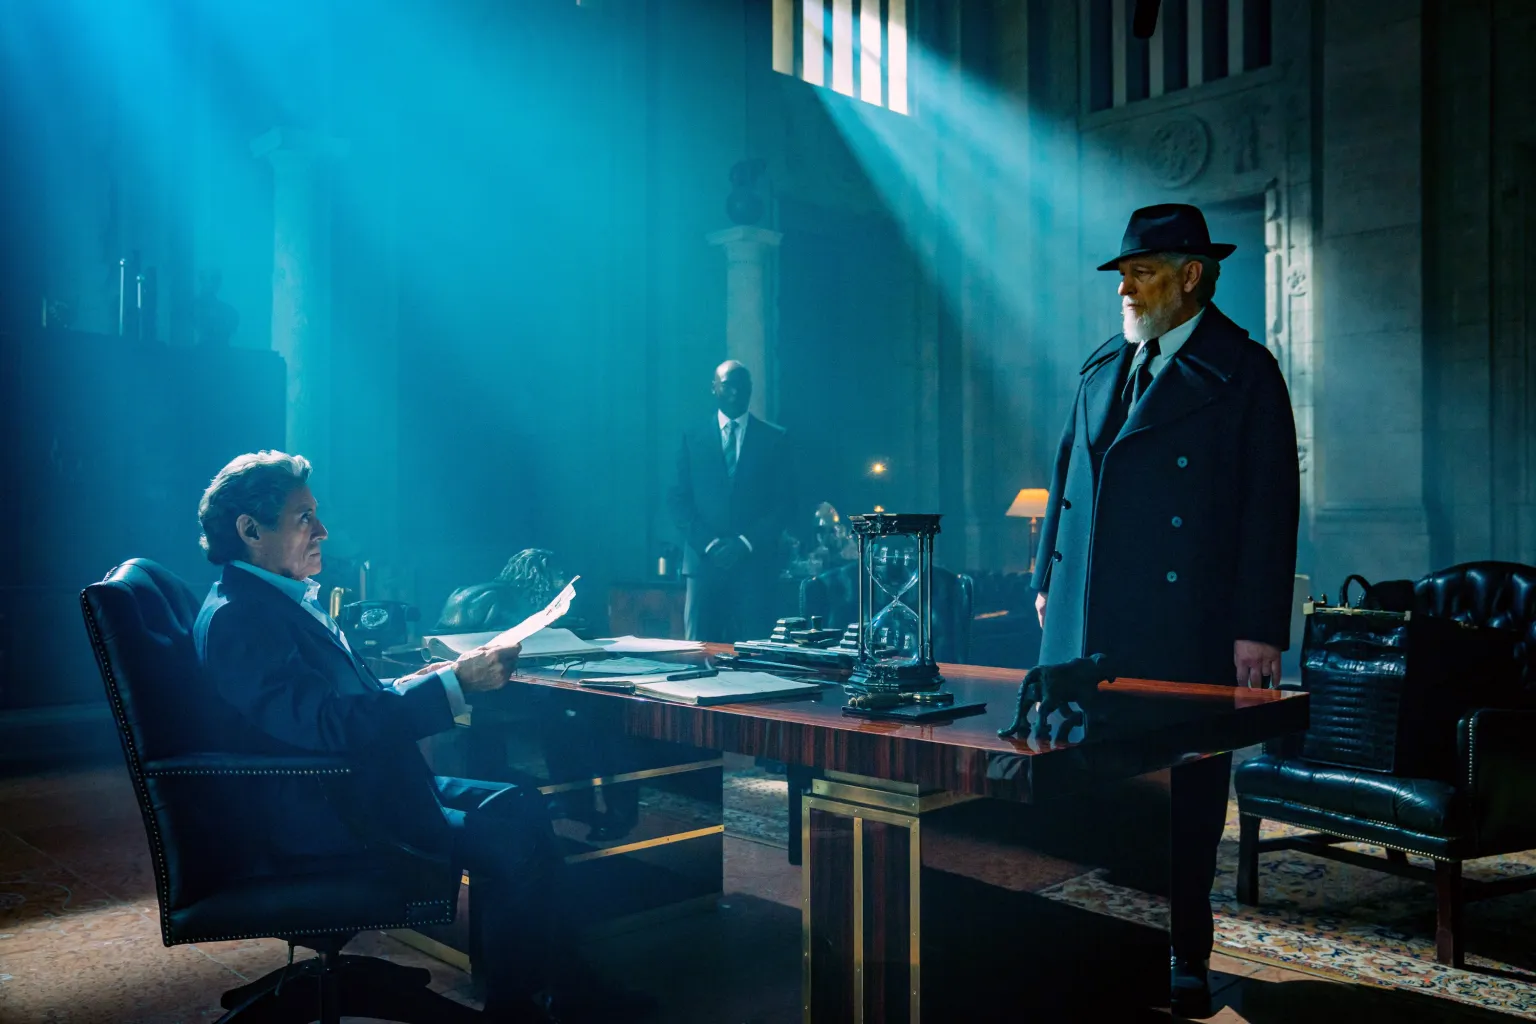
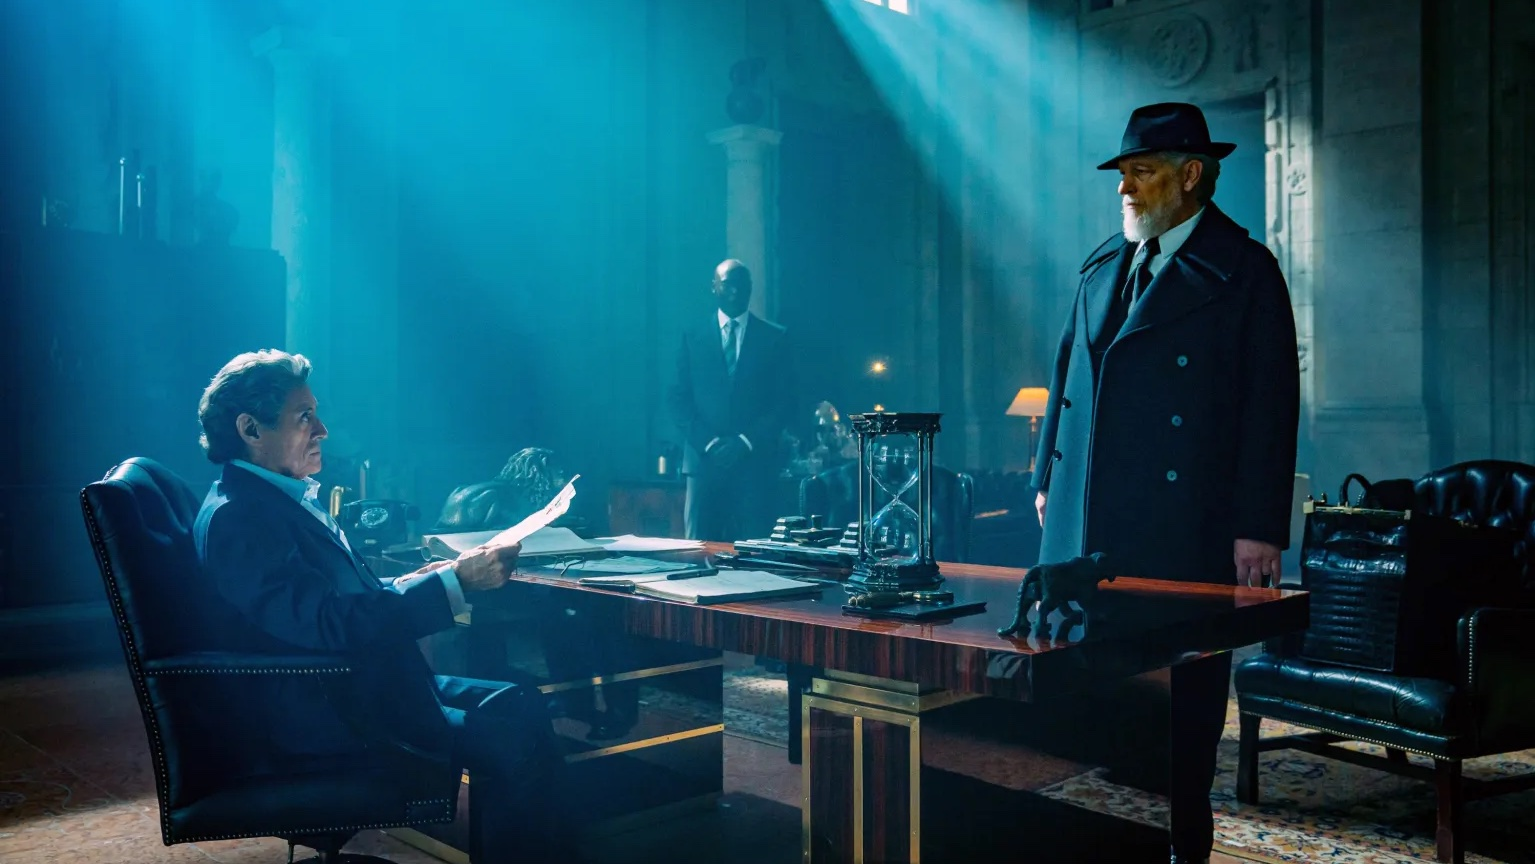
change image dimensions

diff --git a/README.md b/README.md
@@ -1,21 +1,21 @@
 # color-palette-generator
 A Python script that finds the dominant colors of an given image, and generates a color palette concatenated with the original image. See examples below:
 
-Input images:
-![john-wick-input](sample-images/john-wick-input.jpg)
-![blade-runner-input](sample-images/blade-runner-input.jpg)
-![inception-input](sample-images/inception-input.jpg)
+Input images:\
+<img src="sample-images/john-wick-input.jpg" width="480" height="270">\
+<img src="sample-images/blade-runner-input.jpg" width="480" height="270">\
+<img src="sample-images/inception-input.jpg" width="480" height="270">
 
-Output images:
-![john-wick-output](sample-images/john-wick-output.jpg)
-![blade-runner-output](sample-images/blade-runner-output.jpg)
-![inception-output](sample-images/inception-output.jpg)
+Output images:\
+<img src="sample-images/john-wick-output.jpg" width="480" height="366">\
+<img src="sample-images/blade-runner-output.jpg" width="480" height="366">\
+<img src="sample-images/inception-output.jpg" width="480" height="366">
 
 The RGB values of each color will be printed in the terminal. In "gradient" mode, colors are sorted by the sum of their RGB values. In "frequency" mode, they are sorted by the corresponding cluster size.
 
-"gradient" mode:
+"gradient" mode:\
 ![](sample-images/gradient.png)
-"frequency" mode:
+"frequency" mode:\
 ![](sample-images/frequency.png)
 
 ## Prerequisites
